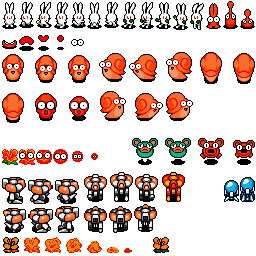
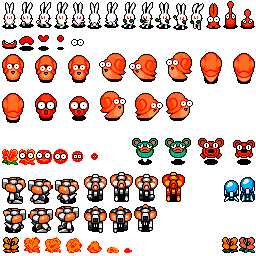
more flowers added

diff --git a/L10_Project_Gamepad_and_Fullscreen_handout/Source/ModulePlayer.cpp b/L10_Project_Gamepad_and_Fullscreen_handout/Source/ModulePlayer.cpp
@@ -310,7 +310,7 @@ void ModulePlayer::OnCollision(Collider* c1, Collider* c2)
 	// L6: DONE 5: Detect collision with a wall. If so, destroy the player.
 	if ((c1 == collider) && (destroyed == false))
 	{
-		
+
 		if (godmode == false)
 		{
 
@@ -334,46 +334,69 @@ void ModulePlayer::OnCollision(Collider* c1, Collider* c2)
 						position.x += speed;
 					}; break;
 				}
-			}
-			if (c1->type == Collider::Type::PLAYER != c2->type == Collider::Type::POWERUP)
-			{
-				powerActive = false;
-			}
-			//player and enemies
-			if (c1 == collider && destroyed == false && (c1->type == Collider::Type::PLAYER && c2->type == Collider::Type::ENEMY))
-			{
-				if (powerTouch == false) {
-					if (timer <= 35)timer++;
-
-					if (timer == 35)
-					{
-						lifes -= 1;
-						timer = 0;
+				if (c1 == collider && destroyed == false) {
+					switch (c2->type) {
+					case Collider::Type::FLOWER:
+						if (c1->rect.y < c2->rect.y) // up
+						{
+							position.y -= speed;
+						}
+						else if (c1->rect.y + 2 > c2->rect.y + c2->rect.h) // down
+						{
+							position.y += speed;
+						}
+						if (c1->rect.x < c2->rect.x) // left
+						{
+							position.x -= speed;
+						}
+						else if (c1->rect.x + 2 > c2->rect.x + c2->rect.w) // right
+						{
+							position.x += speed;
+						}; break;
 					}
-					if (App->particles->dead.isAlive == false && lifes == 0)
-					{
-						App->audio->PlayFx(deadFx);
+				}
+				if (c1->type == Collider::Type::PLAYER != c2->type == Collider::Type::POWERUP)
+				{
+					powerActive = false;
+				}
+				//player and enemies
+				if (c1 == collider && destroyed == false && (c1->type == Collider::Type::PLAYER && c2->type == Collider::Type::ENEMY))
+				{
+					if (powerTouch == false) {
+						if (timer <= 35)timer++;
+
+						if (timer == 35)
+						{
+							lifes -= 1;
+							timer = 0;
+						}
+						if (App->particles->dead.isAlive == false && lifes == 0)
+						{
+							App->audio->PlayFx(deadFx);
+						}
 					}
 				}
 			}
+			if (c1->type == Collider::Type::BOMB && c2->type == Collider::Type::ENEMY)
+			{
+				score += 23;
+			}
+			if (c1->type == Collider::Type::FIRE && c2->type == Collider::Type::ENEMY)
+			{
+				score += 23;
+			}
 		}
-
-		if (c1->type == Collider::Type::BOMB && c2->type == Collider::Type::ENEMY)
+		if (c1->type == Collider::Type::PLAYER && c2->type == Collider::Type::MACHINE)
 		{
-			score += 23;
+			App->audio->PlayFx(winFx);
+			win = true;
+		}
+		if (c1->type == Collider::Type::PLAYER && c2->type == Collider::Type::POWERUP) {
+			powerActive = false;
+			powerTouch = true;
+
 		}
 	}
-	if (c1->type == Collider::Type::PLAYER && c2->type == Collider::Type::MACHINE)
-	{
-		App->audio->PlayFx(winFx);
-		win = true;
-	}
-	if (c1->type == Collider::Type::PLAYER && c2->type == Collider::Type::POWERUP) {
-		powerActive = false;
-		powerTouch = true;
-		
-	}
-
 }
 void ModulePlayer::DebugDrawGamepadInfo()
 {

diff --git a/L10_Project_Gamepad_and_Fullscreen_handout/Source/ModuleCollisions.cpp b/L10_Project_Gamepad_and_Fullscreen_handout/Source/ModuleCollisions.cpp
@@ -46,10 +46,7 @@ ModuleCollisions::ModuleCollisions(bool startEnabled) : Module(startEnabled)
 
 	matrix[Collider::Type::POWERUP][Collider::Type::PLAYER] = true;
 
-	matrix[Collider::Type::PASIVEFLOWER][Collider::Type::BOMB] = true;
-	matrix[Collider::Type::PASIVEFLOWER][Collider::Type::PLAYER] = true;
-	matrix[Collider::Type::PASIVEFLOWER][Collider::Type::ENEMY] = true;
-
+	
 
 	/*matrix[Collider::Type::ENEMY_SHOT][Collider::Type::WALL] = true;
 	matrix[Collider::Type::ENEMY_SHOT][Collider::Type::PLAYER] = true;

diff --git a/L10_Project_Gamepad_and_Fullscreen_handout/Source/Enemy_Flower.cpp b/L10_Project_Gamepad_and_Fullscreen_handout/Source/Enemy_Flower.cpp
@@ -7,7 +7,7 @@
 Enemy_Flower::Enemy_Flower(int x, int y) : Enemy(x, y)
 {
 	// idle animation - just one sprite
-	idleAnim.PushBack({ 2, 149, 16, 16 });
+	idleAnim.PushBack({ 239, 237, 16, 16 });
 
 	collider = App->collisions->AddCollider({ 0, 0, 16, 10 }, Collider::Type::PASIVEFLOWER, (Module*)App->enemies);
 }

diff --git a/L10_Project_Gamepad_and_Fullscreen_handout/Source/Pasive_Flower.cpp b/L10_Project_Gamepad_and_Fullscreen_handout/Source/Pasive_Flower.cpp
@@ -7,7 +7,7 @@
 Pasive_Flower::Pasive_Flower(int x, int y) : Enemy(x, y)
 {
 	// idle animation - just one sprite
-	idleAnim.PushBack({ 3, 237, 16, 16 });
+	idleAnim.PushBack({ 222, 237, 16, 16 });
 
 	collider = App->collisions->AddCollider({ 0, 0, 16, 10 }, Collider::Type::FLOWER, (Module*)App->enemies);
 }
